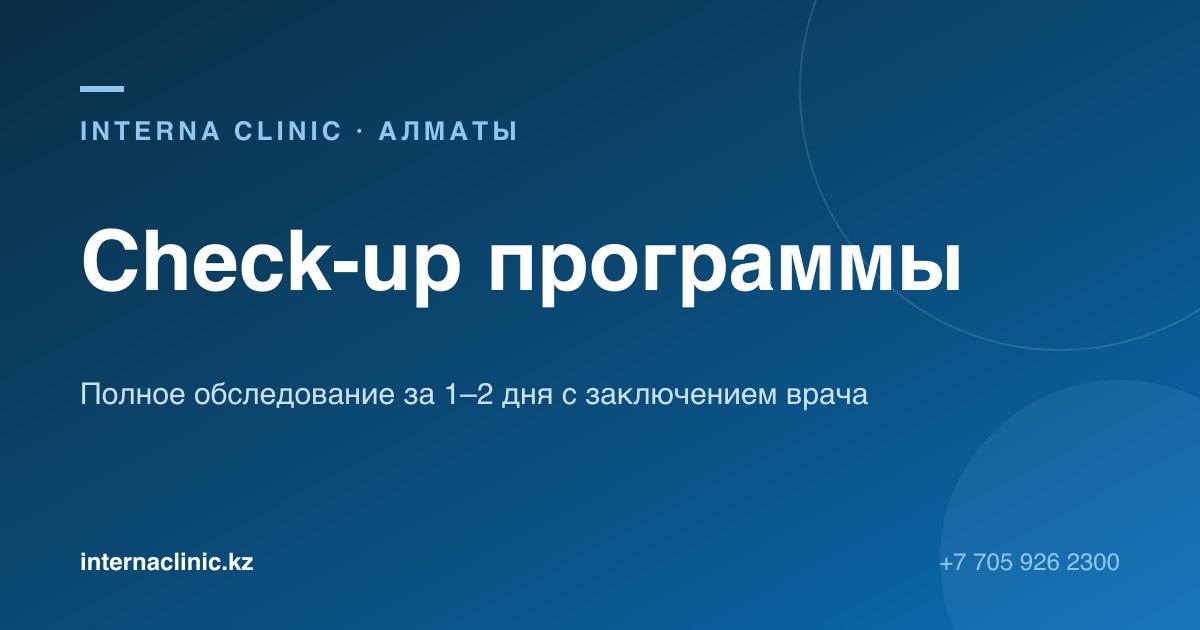
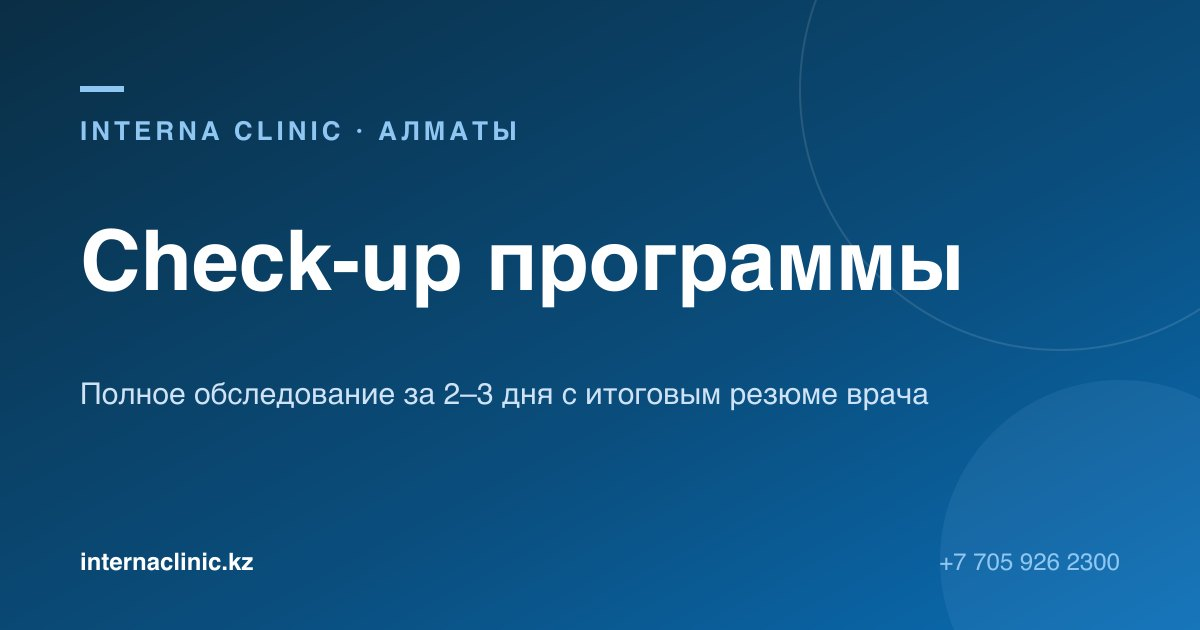
Правки клиники по Check-up и KIDS: обследование за 2–3 дня, цены без «от», новые шаги и вопросы об оборудовании, InBody бесплатно; баннер школы диабета с Арданой, ожирение у детей, врачи направлений (Назым у диетолога, Тахмина у гастроэнтеролога, Ашимова на фибросканe), Арина без детского приёма; но

Changed region(s): [[0.4933, 0.6032, 0.7708, 0.6635], [0.37, 0.6032, 0.4317, 0.6333]]

diff --git a/src/styles/v2.css b/src/styles/v2.css
@@ -1623,3 +1623,8 @@ body:has(#cuPick) :is(#how,#dirs,#reviews,#faq){padding-top:64px!important}
 }
 /* хиро главной на телефоне: текст — по вертикали в середине фото, карточки услуг — внизу */
 @media(max-width:700px){.hero3{align-items:stretch}.hero3 .in{padding-top:20px}.hero3 .in .title{margin:auto 0}}
+/* check-up: «бесплатно» у анализа InBody (входит во все программы) */
+.cuex .free,.dircards .free{display:inline-block;vertical-align:1px;margin-left:2px;padding:2px 8px;border-radius:999px;background:var(--mint);color:#17805E;font-size:12px;font-weight:600;line-height:1.5;white-space:nowrap}
+.kdocs{display:grid;gap:12px}
+/* карточка врача направления KIDS на телефоне: фото 64px слева, имя и роль рядом, «Записаться» во всю ширину под ними */
+@media(max-width:560px){.docrow.big{display:grid;grid-template-columns:64px minmax(0,1fr);gap:14px;padding:18px;align-items:start}.docrow.big .ph{width:64px;height:64px;border-radius:14px}.docrow.big .i b{font-size:17px}.docrow.big .i small{font-size:13px}.docrow.big .tags{gap:10px}.docrow.big .btn{grid-column:1/-1;width:100%;justify-content:center}.docrow.big .ai{display:none}a.docrow.big:hover{padding-left:18px}}
